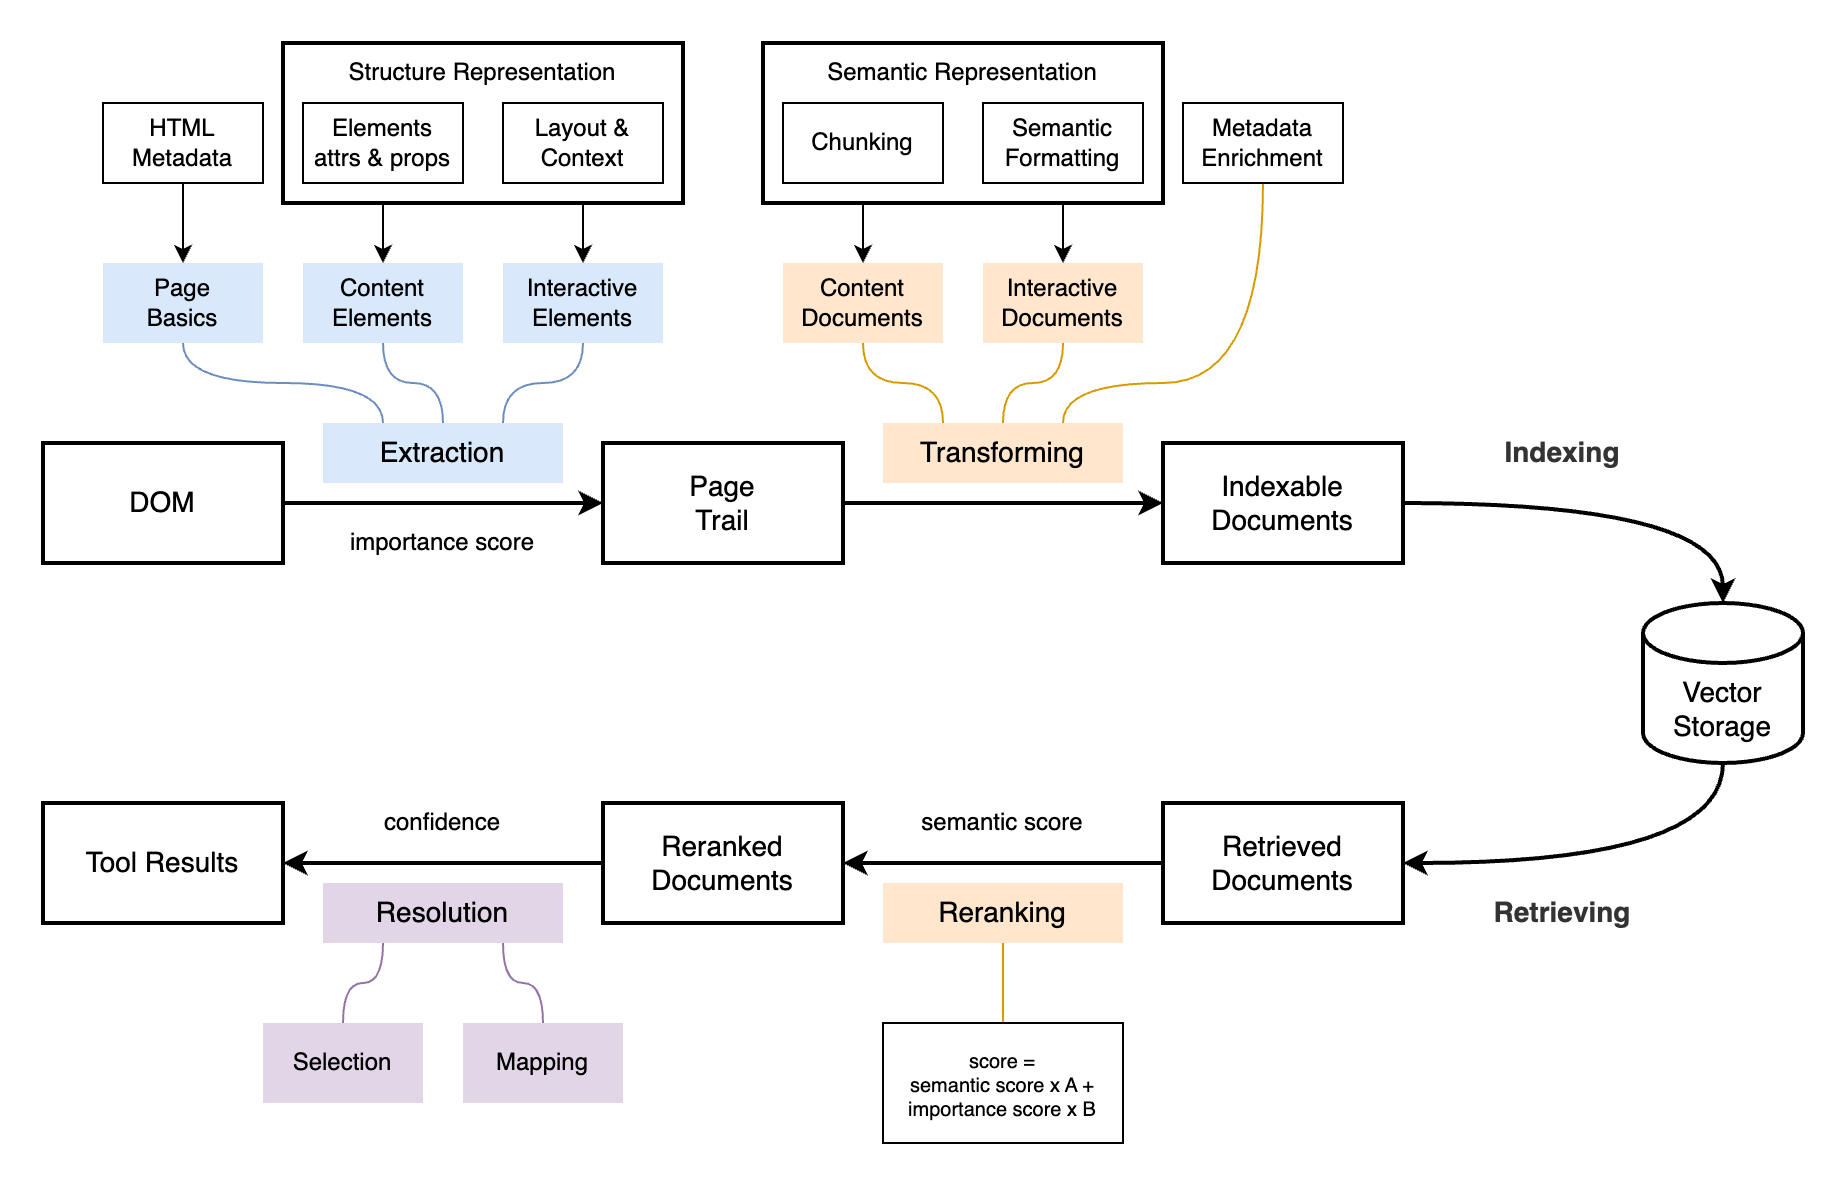
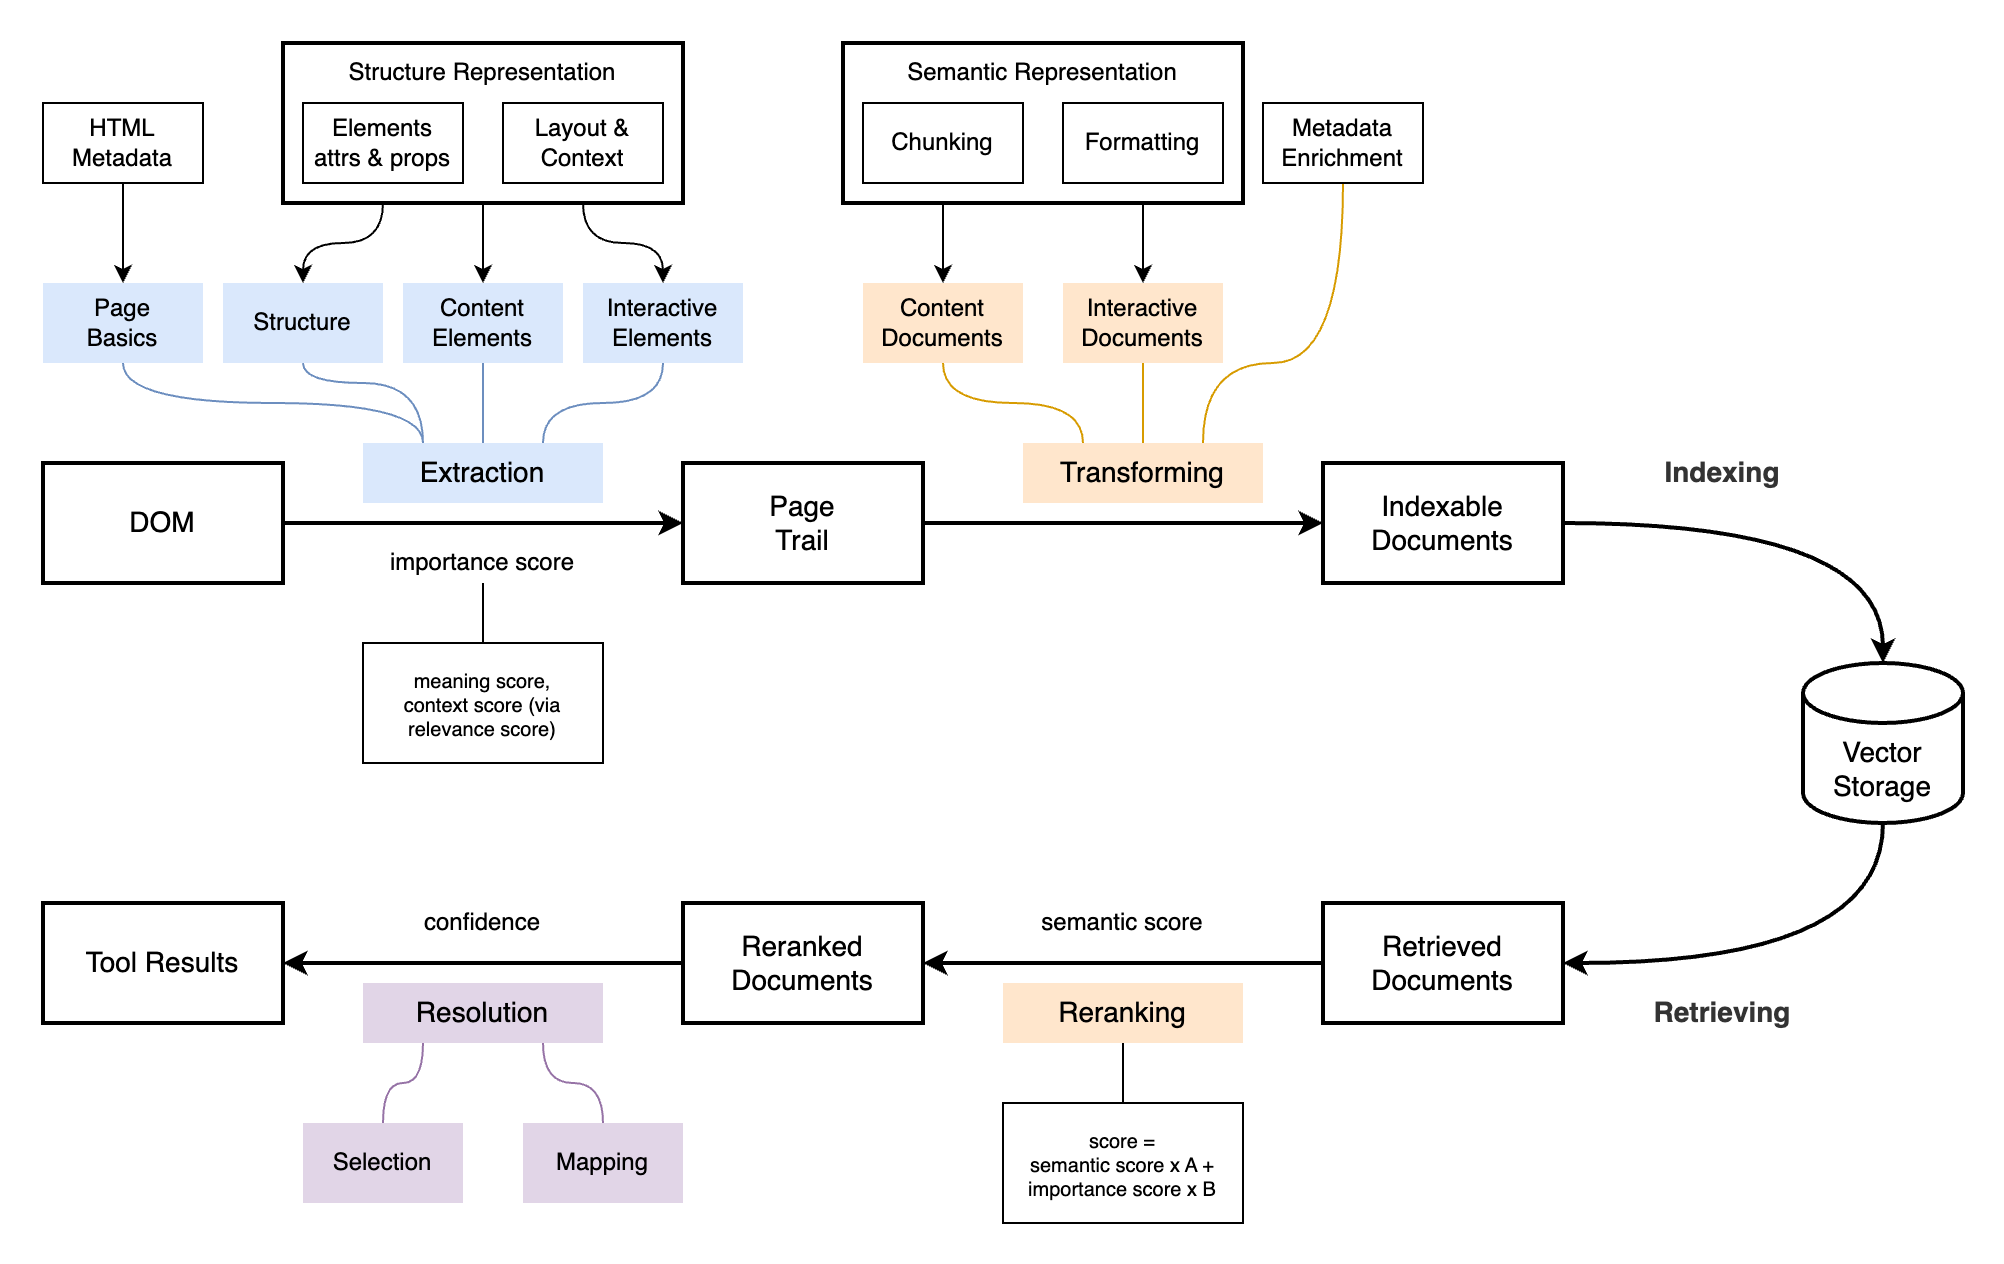
Updated docs

diff --git a/apps/extension/src/shared/components/Card/Card.tsx b/apps/extension/src/shared/components/Card/Card.tsx
@@ -6,9 +6,9 @@ interface CardProps {
     text?: string;
     variant?: 'primary' | 'secondary';
     direction?: 'none' | 'left';
-    transparent?: boolean;
     twinkle?: boolean;
     error?: boolean;
+    className?: string;
     children?: ComponentChildren;
 }
 
@@ -17,27 +17,27 @@ export function Card({
     text,
     variant = 'primary',
     direction = 'none',
-    transparent = false,
     twinkle = false,
     error = false,
+    className,
     children,
 }: CardProps) {
-    const className = [
+    const classNames = [
         'flowforge-card',
         `flowforge-card--${variant}`,
         direction !== 'none' && `flowforge-card--${direction}`,
-        transparent && 'flowforge-card--transparent',
         twinkle && 'flowforge-stared-twinkle',
         twinkle && `flowforge-stared-twinkle--${variant}`,
+        className,
     ]
         .filter(Boolean)
         .join(' ');
-    const id = useId();
-    const titleId = title ? `flowforge-card-title-${id}` : undefined;
+
+    const titleId = title ? `flowforge-card-title-${useId()}` : undefined;
 
     return (
         <section
-            className={className}
+            className={classNames}
             data-state={error ? 'error' : undefined}
             aria-labelledby={titleId}
             role={error ? 'alert' : undefined}

diff --git a/apps/extension/src/popup/components/Understanding/Understanding.tsx b/apps/extension/src/popup/components/Understanding/Understanding.tsx
@@ -9,7 +9,7 @@ interface UnderstandingProps {
 
 export function Understanding({ onOpenPageInspector }: UnderstandingProps) {
     return (
-        <Card title="Understanding" variant="secondary" transparent twinkle>
+        <Card title="Understanding" variant="secondary" className="flowforge-understanding-container" twinkle>
             <div className="flowforge-understanding-list">
                 <ul>
                     <li key={'inspect-basics'}>

diff --git a/apps/extension/src/shared/components/Card/Card.css b/apps/extension/src/shared/components/Card/Card.css
@@ -25,9 +25,6 @@
 .flowforge-card__footer {
   padding-top: var(--flowforge-pad-sm);
 }
-.flowforge-card--transparent {
-  background: transparent;
-}
 .flowforge-card__text:last-child,
 .flowforge-card__text:has(+ .flowforge-card__footer) {
   padding-bottom: 0;

diff --git a/apps/extension/src/popup/components/Understanding/Understanding.css b/apps/extension/src/popup/components/Understanding/Understanding.css
@@ -1,4 +1,7 @@
 /* Understanding */
+.flowforge-understanding-container {
+  background: transparent;
+}
 .flowforge-understanding-list {
 }
 .flowforge-understanding-list ul {

diff --git a/docs/BACKLOG.md b/docs/BACKLOG.md
@@ -2,20 +2,22 @@
 
 - Enhance logging (with pino, LangSmith, opentelemetry)
 - Enhance error handling and API validation
+- Improve error handling for element lookup, backend availability, and unavailable page runtime
 - Test coverage (unit/integration, vitest, playwright, promptfoo)
-- Create extendable abstraction over extractors, embeddings, tooling
+- Create extendable abstraction over extractors, selectors, embeddings, tooling
 
 ## Page Trail
 
 - Cache for the collector heavy computes
-- Adjust importance score for headings (h1-h4)
 - Parse structured data (Schema.org, og, x-card, etc.) for basics info
+- Enhance dataId and CSS selector usage for Element locator
 
 ## Backend
 
 ### Models
 
 - Support Anthropic, Ollama Cloud providers
+- Research OpenRouter, Lighter LM, and Cerebras.ai for LLM routing and low-latency inference
 - Research WebLLM in browser: instant summary, intent classification, local reranking, etc.
 - Try open source models: gpt-oss:120b, nemotron-3-super
 
@@ -31,6 +33,7 @@
 
 ### Reasoning
 
+- Research OpenAI Agents SDK and Agna framework for agent orchestration
 - Use user context and navigation history for prompting
 - Present a page/website UI and meanings graph for reasoning
 
@@ -49,6 +52,10 @@
 - Add metrics: tokens usage, latency, errors, etc.
 - Refactor the Server, consider using Fastify instead of Express
 
+### Browser automation
+
+- Research Stagehand for browser action planning and execution
+
 ### Analytics
 
 - Save steps for workflows for more details
@@ -57,8 +64,10 @@
 
 ## Extension
 
-- Support standalone mode, properly
-- Enhance dataId and CSS selector usage for Element locator
+- Support service pages where browser APIs allow content scripts or fallback flows
+- Restore popup/page UI state when reopening the extension
+- Style the wizard to better fit the host website
+- Consider to separate Inspector
 
 ### Page inspector
 
@@ -69,5 +78,6 @@
 ## DX
 
 - Dev/Prod mode
+- Publish PageTrail as a standalone package
 - Update backend/quick-setup.js
 - Generate CHANGELOG.md

diff --git a/docs/ARCHITECTURE.md b/docs/ARCHITECTURE.md
@@ -40,7 +40,7 @@ Inference layer supporting Ollama or OpenAI models for embeddings and generation
 2. Extension sends `pageTrail + question` to backend (`POST /query`)
 3. Backend indexes the submitted page snapshot
 4. Agent executes with access to tools and vector search
-5. Backend returns structured result (answer + target elements)
+5. Backend returns `QueryResponse` with `result` and execution metadata
 6. Browser runtime highlights elements and displays the response
 
 ### Indexing flow
@@ -80,13 +80,16 @@ Shared request/response contracts live in `@flowforge/contract`; DOM snapshots l
 
 ## Contracts
 
-Extension ↔ backend:
+Browser runtime ↔ backend:
 
 - `POST /query` — submit user question with page data
-- `POST /search` — semantic search over indexed content
-- `GET /analytics` / `GET /health` — analytics and service status
+- `POST /search` — semantic search over an already indexed page URL
+- `GET /health` — service status
+- `GET /analytics` — in-memory query analytics
 
-`POST /query` accepts `question`, `pageTrail`, `domain`, and optional question history. It returns an `AgentResult` with `answer`, `mode`, optional `topic`, and target `elements`.
+`POST /query` accepts `question`, `pageTrail`, `domain`, and optional `userContext.previousQuestions`. It indexes the submitted page before agent execution and returns `{ result, metadata }`.
+
+`result` is an `AgentResult` with `answer`, `mode`, optional `topic`, and target `elements`. `metadata` includes model, token usage, and execution time. `POST /search` accepts `pageUrl`, `query`, and optional `k`, then returns retrieved documents.
 
 Agent tools use structured Zod schemas. Indexer documents are stored per page URL and embedding provider with content text and source element metadata.
 

diff --git a/docs/DOM-TO-RAG-PIPELINE.md b/docs/DOM-TO-RAG-PIPELINE.md
@@ -28,9 +28,7 @@ Elements include:
 
 - Attributes and properties
 - Semantic roles and labels
-- Embedded layout and context:
-    - Section (e.g., header, main, form)
-    - Hierarchical path within the page
+- Embedded layout and context, including section and ancestor path
 - Stable `dataId` and optional CSS selector for browser-side lookup
 
 Each element is assigned an importance score. This layer defines _what exists on the page and how it is structured_.
@@ -73,15 +71,15 @@ Retrieved documents are rescored with semantic similarity and UI-specific signal
 A hybrid scoring function is applied by the agent tools:
 
 ```
-score = semantic similarity + UI importance signals
+score = semanticScore * weight + importanceScore * weight
 ```
 
 Where:
 
-- `semantic_score` reflects how well the document matches the query
-- `importance_score` reflects UI relevance such as visibility, role, position, and interaction potential
+- `semanticScore` reflects how well the document matches the query
+- `importanceScore` reflects UI relevance such as visibility, role, position, and interaction potential
 
-Different tools use different scoring profiles for lookup, answer, and action-oriented requests.
+Lookup, answer, and action-oriented tools use different weights.
 
 ### 5. Resolution to tool results
 

diff --git a/apps/extension/README.md b/apps/extension/README.md
@@ -34,8 +34,6 @@ npm run sandbox
 3. Click **Load unpacked**
 4. Select `apps/extension/dist/chrome`
 
-Sandbox opens `http://localhost:3007` with demo mode and backend mode.
-
 ## Embed runtime
 
 `build:embed` creates a bundle and declaration file under `dist/embed`:
@@ -55,11 +53,11 @@ await FlowForge.start({ settings: { theme: 'dark' } });
 - `popup/` — user interface and interaction logic
 - `page/` — page overlay, highlighting, wizard, inspector, and collection hooks
 - `background/`, `chrome/`, `embed/` — worker, extension shell, and embed runtime
-- `core/` / `adapters/` — API, storage, locator, root injection, and transport
+- `core/` and `adapters/` — API, storage, locator, root injection, and transport
 
 ## Notes
 
 - Chrome extension requires backend on http://localhost:3477
-- Embed integration supports backend mode and demo mode
+- Sandbox runs on http://localhost:3007 with backend and demo modes
 - Limited by browser security (iframes, cross-origin content)
 - See [Architecture](../../docs/ARCHITECTURE.md) for system design

diff --git a/apps/backend/README.md b/apps/backend/README.md
@@ -23,6 +23,8 @@ npm start
 npm run dev
 ```
 
+For watch mode, run `npm run dev -w @flowforge/backend` in another terminal.
+
 ## Configuration
 
 Configured via `.env` file:
@@ -38,11 +40,12 @@ See [.env.example](.env.example) for all options.
 
 ## API
 
-- `POST /query` — main agent entry point (question + page data)
-- `POST /search` — semantic search over indexed content
-- `GET /analytics` / `GET /health` — analytics and service status
+- `POST /query` — main agent entry point (`question`, `pageTrail`, `domain`)
+- `POST /search` — semantic search over an indexed `pageUrl`
+- `GET /health` — service status
+- `GET /analytics` — in-memory query analytics
 
-`/query` expects `question`, `pageTrail`, and `domain`; it returns answer, mode, optional topic, matched elements, and execution metadata.
+`/query` returns `{ result, metadata }`. `result` contains answer, mode, optional topic, and matched elements; `metadata` contains model, token usage, and execution time.
 
 ## Notes
 

diff --git a/CHANGELOG.md b/CHANGELOG.md
@@ -2,6 +2,23 @@
 
 All notable changes to the project will be documented in this file.
 
+## [Unreleased]
+
+### Added
+
+- PageTrail `container` elements and `structure` tree for representing page context and layout.
+- Detailed `context.path` data for content and interactive elements, including container relevance and breadcrumb context.
+- Dev mode for Page Inspector with enriched PageTrail records and metadata diagnostics.
+- Tooltips across popup and Inspector controls, replacing native `title` hints.
+
+### Changed
+
+- Reworked PageTrail scoring and semantic formatting around meaning, context relevance, and target importance.
+- Updated backend tools to use detailed PageTrail `context.path` when describing matched elements and content.
+- Expanded PageTrail metadata timings with per-stage collection durations.
+- Improved Markdown output for the Inspector semantic view.
+- Limited extracted label and text values to keep PageTrail records concise.
+
 ## [0.1.5] - 2026-08-16
 
 ### Added
